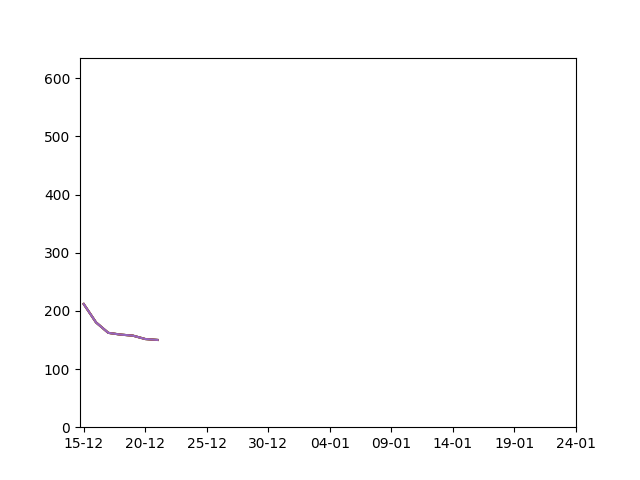
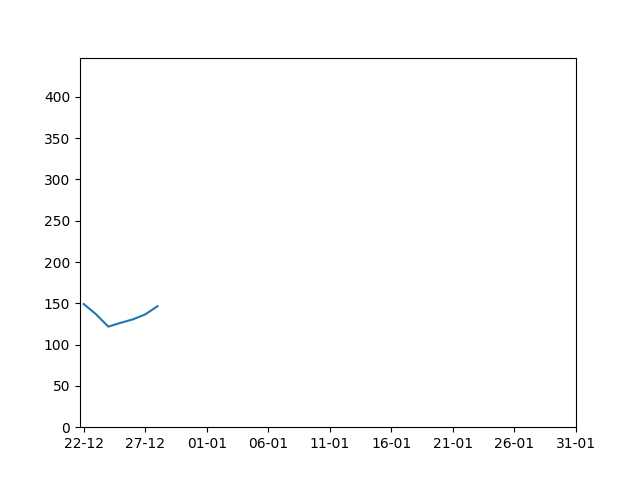
debug blog.py (test) and update background of sunday

diff --git a/flaskr/templates/blog/index.html b/flaskr/templates/blog/index.html
@@ -16,7 +16,7 @@
   {% if g.user %}
   
     <!---{% if boss %}
-      <a class="action" href="{{ url_for('blog.dldb') }}">Download Database</a>
+      <a class="action" href="{{ url_for('blog.dldb') }}">Remove non monday preds</a>
     {% endif %}--->
     {% if g.monday %}
       {% if g.edit %}

diff --git a/flaskr/blog.py b/flaskr/blog.py
@@ -1,3 +1,4 @@
+from sqlite3.dbapi2 import DateFromTicks
 from flask import (
     Blueprint, flash, g, redirect, render_template, request, url_for, Response, send_file
 )
@@ -57,11 +58,14 @@ def create_plot(pred_id, days_before=7):
     df = pd.DataFrame(x, columns=['Journées'])
     columns = []
     # set values for real numbers
+    date_format = "%Y-%m-%d"
     column_name = 'Reality'
     columns.append(column_name)
     real_hospi = get_mean_hospi()
     last_date = real_hospi.iloc[-1]['DATE']
-    last_date = min(str(last_date), str(x[-1]))
+    last_date = datetime.datetime.strptime(last_date, date_format)
+    last_date = min(last_date, datetime.datetime.strptime(datetime.datetime.strftime(x[-1], date_format), date_format))
+    last_date = datetime.datetime.strftime(last_date, date_format)
     y_real = real_hospi.loc[real_hospi['DATE']>=str(x[0])]
     y_real = y_real.loc[y_real['DATE'] <= last_date]['NEW_IN']
     y_real = list(y_real)
